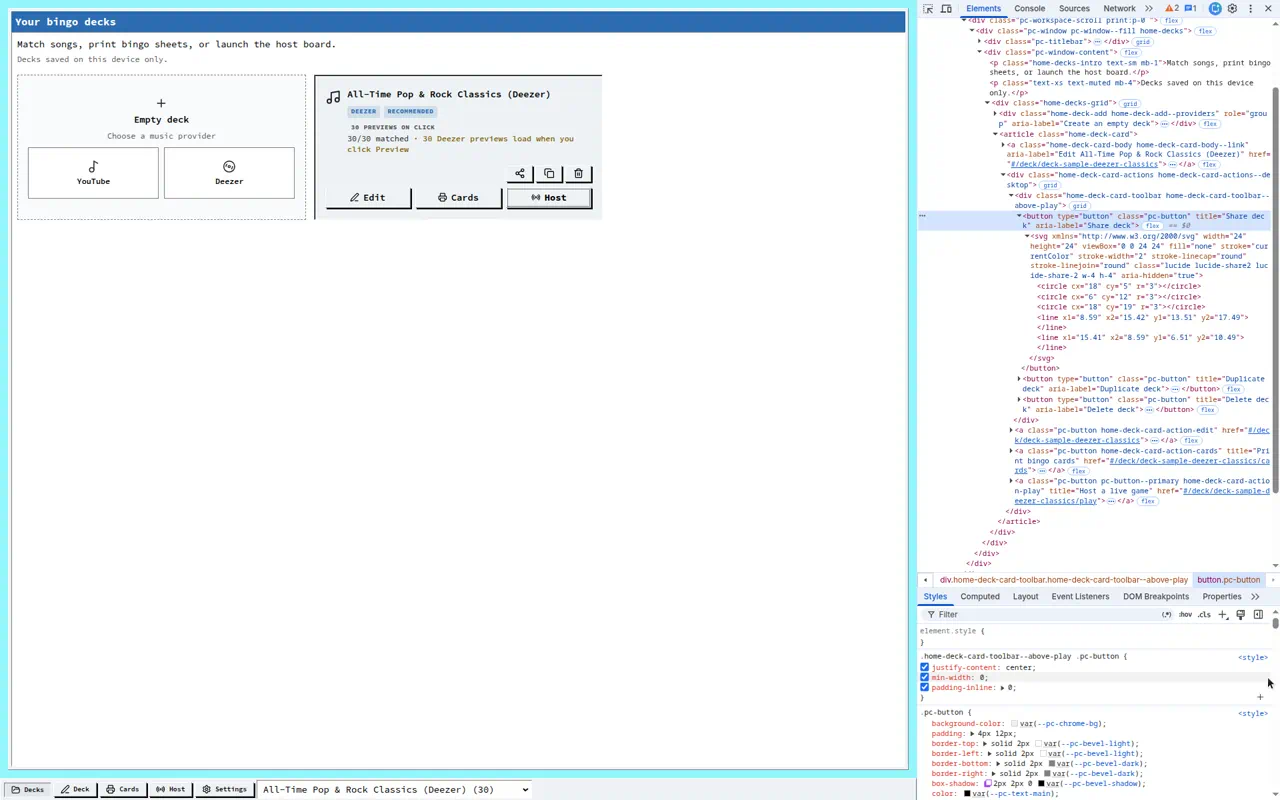
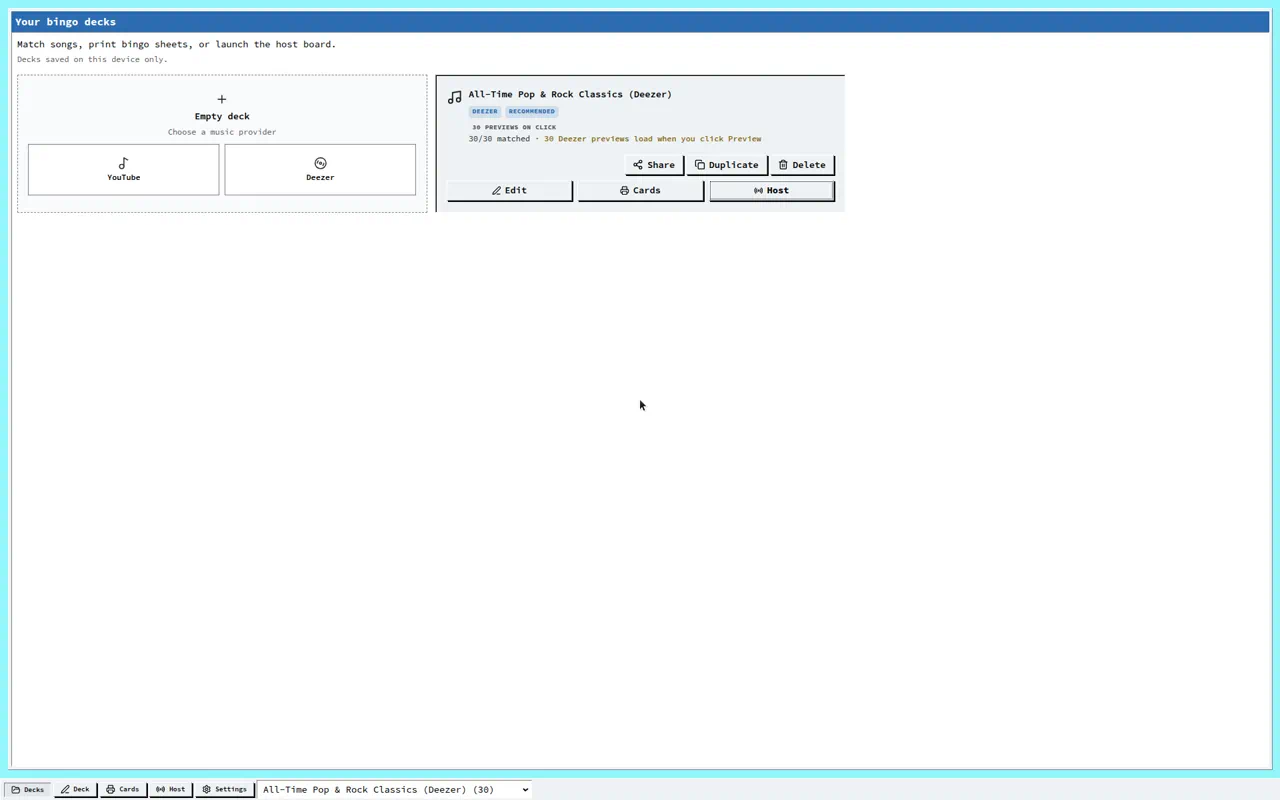
Show Share, Duplicate, and Delete on desktop deck cards
The desktop icon buttons now include those words. Below 640px the same actions stay icon-only.

Changed region(s): [[0.6875, 0.0, 1.0, 1.0], [0.0312, 0.0938, 0.6562, 0.2812]]

diff --git a/src/pages/HomePage.test.tsx b/src/pages/HomePage.test.tsx
@@ -71,26 +71,24 @@ describe("desktop deck action names", () => {
     deckApi.backgroundTasks = {};
   });
 
-  it("names share, duplicate, and delete without visible label text", () => {
+  it("shows Share, Duplicate, and Delete on desktop", () => {
     renderHome();
 
-    for (const name of ["Share deck", "Duplicate deck", "Delete deck"]) {
-      const button = screen.getByRole("button", { name });
-      expect(button).toHaveAttribute("aria-label", name);
-      expect(button).toHaveTextContent("");
-    }
+    expect(screen.getByRole("button", { name: "Share deck" })).toHaveTextContent("Share");
+    expect(screen.getByRole("button", { name: "Duplicate deck" })).toHaveTextContent("Duplicate");
+    expect(screen.getByRole("button", { name: "Delete deck" })).toHaveTextContent("Delete");
   });
 
-  it("does not add those names on mobile", () => {
+  it("does not show those words on mobile", () => {
     mobile.current = true;
     renderHome();
 
-    expect(screen.queryByRole("button", { name: "Share deck" })).toBeNull();
-    expect(screen.queryByRole("button", { name: "Duplicate deck" })).toBeNull();
-    expect(screen.queryByRole("button", { name: "Delete deck" })).toBeNull();
+    expect(screen.queryByRole("button", { name: "Share" })).toBeNull();
+    expect(screen.queryByRole("button", { name: "Duplicate" })).toBeNull();
+    expect(screen.queryByRole("button", { name: "Delete" })).toBeNull();
+    expect(screen.queryByText("Share")).toBeNull();
+    expect(screen.queryByText("Duplicate")).toBeNull();
+    expect(screen.queryByText("Delete")).toBeNull();
     expect(screen.getByRole("button", { name: "More actions for Party" })).toHaveTextContent("More");
-    expect(screen.queryByText("Share deck")).toBeNull();
-    expect(screen.queryByText("Duplicate deck")).toBeNull();
-    expect(screen.queryByText("Delete deck")).toBeNull();
   });
 });

diff --git a/src/pages/HomePage.tsx b/src/pages/HomePage.tsx
@@ -346,6 +346,7 @@ export const HomePage: React.FC = () => {
               aria-label={emptyDeck ? `Share deck. ${EMPTY_DECK_ACTION_TITLE}` : "Share deck"}
             >
               <Share2 className="w-4 h-4" aria-hidden="true" />
+              Share
             </button>
 
             <button
@@ -356,6 +357,7 @@ export const HomePage: React.FC = () => {
               aria-label="Duplicate deck"
             >
               <Copy className="w-4 h-4" aria-hidden="true" />
+              Duplicate
             </button>
             <button
               type="button"
@@ -365,6 +367,7 @@ export const HomePage: React.FC = () => {
               aria-label="Delete deck"
             >
               <Trash2 className="w-4 h-4" aria-hidden="true" />
+              Delete
             </button>
           </div>
           <Link to={`/deck/${deck.id}`} className="pc-button home-deck-card-action-edit">

diff --git a/src/index.css b/src/index.css
@@ -1347,16 +1347,16 @@
 .home-deck-card-toolbar--above-play {
   grid-column: 3;
   grid-row: 1;
-  display: grid;
-  grid-template-columns: repeat(3, minmax(0, 1fr));
+  display: flex;
+  justify-content: flex-end;
+  justify-self: end;
+  width: max-content;
   gap: 4px;
-  min-width: 0;
 }
 
 .home-deck-card-toolbar--above-play .pc-button {
   justify-content: center;
-  min-width: 0;
-  padding-inline: 0;
+  white-space: nowrap;
 }
 
 .home-deck-card-action-edit {
